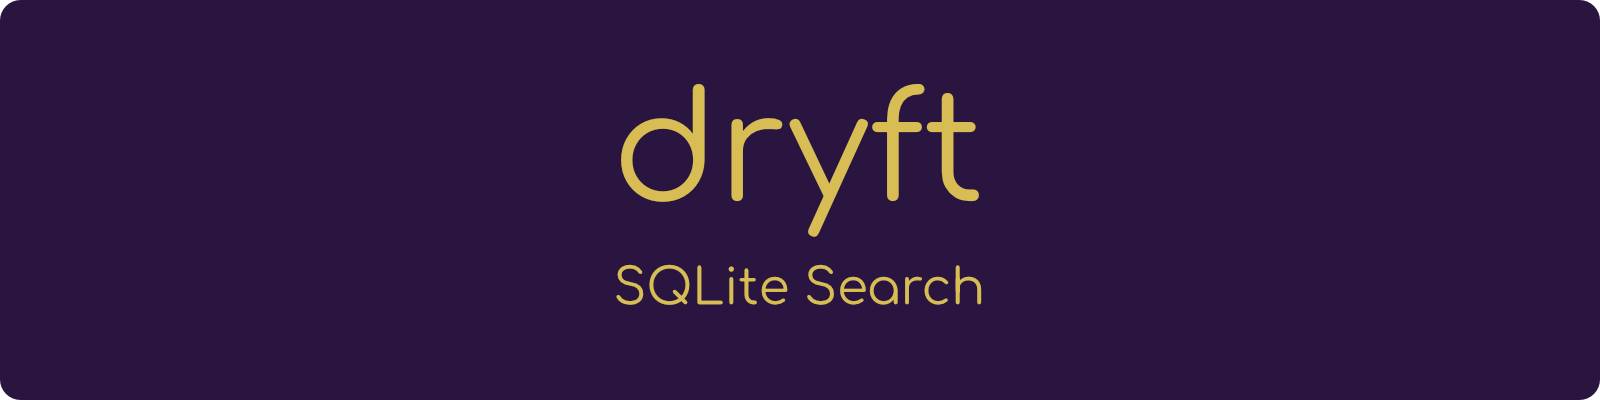
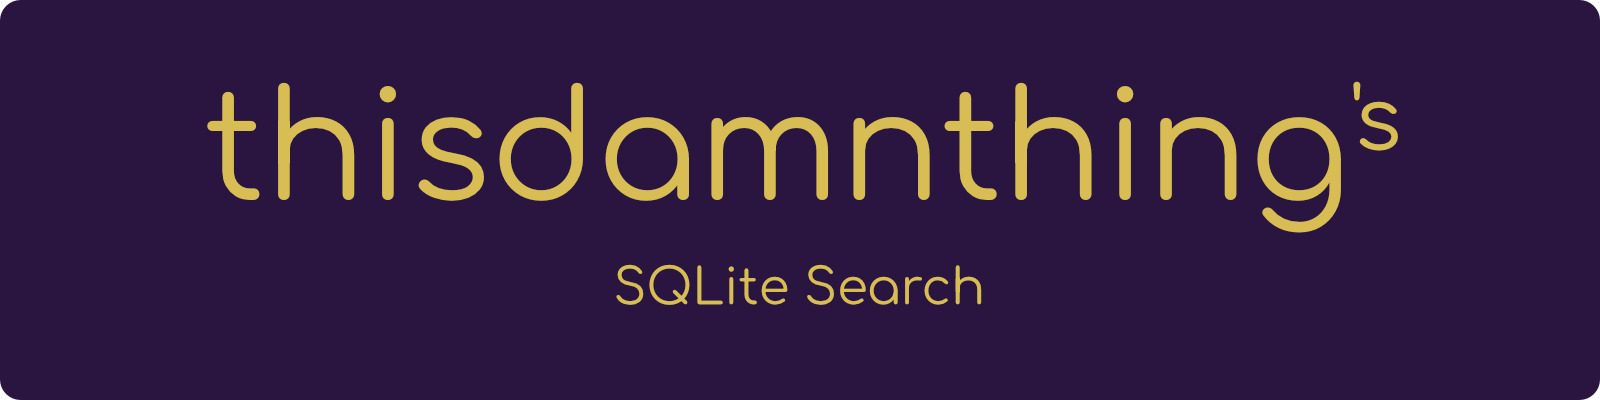
Rebrand SQLite Search and declare marketplace metadata

Changed region(s): [[0.125, 0.21, 0.875, 0.6], [0.6875, 0.21, 0.7188, 0.27], [0.2188, 0.21, 0.25, 0.27]]

diff --git a/assets/provider.py b/assets/provider.py
@@ -25,7 +25,7 @@ def main(request):
         db.close()
         return {'protocol_version': 1, 'indexed': len(notes)}
     if not path.exists():
-        raise ValueError('Index missing; run dryft brain index --provider dryft-search-sqlite')
+        raise ValueError('Index missing; run tdt brain index --provider tdt-search-sqlite')
     db = sqlite3.connect(f'file:{path}?mode=ro', uri=True)
     # Query grammar is generated from tokens; user input is never FTS syntax.
     terms = re.findall(r'\w+', request['query'])[:50]

diff --git a/docs/usage.md b/docs/usage.md
@@ -6,12 +6,12 @@ to your layout. Commands without `--workspace` run from the workspace root.
 
 SQLite Search adds ranked full-text search over approved brain notes. It indexes
 note titles and contents with SQLite FTS5 and ranks matches using BM25, with more
-weight given to title matches. [Dryft](https://usedryft.com) returns current Markdown evidence for the
+weight given to title matches. [ThisDamnThing](https://usethisdamnthing.com) returns current Markdown evidence for the
 matching notes.
 
 ## Requirements
 
-[Dryft](https://usedryft.com) must run under Python 3.12, with FTS5 support in that interpreter's
+[ThisDamnThing](https://usethisdamnthing.com) must run under Python 3.12, with FTS5 support in that interpreter's
 `sqlite3` module. The provider uses Python's standard library;
 it does not bundle a separate database server, model or third-party Python runtime.
 
@@ -19,15 +19,15 @@ it does not bundle a separate database server, model or third-party Python runti
 
 The provider itself uses portable Python APIs, but the current stack manifest
 lists Linux x86_64 only. Windows support needs a compatible release with an
-updated platform declaration and verification. This is separate from [Dryft](https://usedryft.com) core
+updated platform declaration and verification. This is separate from [ThisDamnThing](https://usethisdamnthing.com) core
 platform support. The Python/FTS5 dependency check applies on Windows too; use the
-Python executable from [Dryft](https://usedryft.com)'s environment.
+Python executable from [ThisDamnThing](https://usethisdamnthing.com)'s environment.
 
 ## Dependency setup
 
-[Dryft](https://usedryft.com) launches providers with its own Python interpreter. Installing Python 3.12
-alongside a [Dryft](https://usedryft.com) installation that uses another version does not switch [Dryft](https://usedryft.com)
-to 3.12. Select Python 3.12 when installing [Dryft](https://usedryft.com); for an existing installation,
+[ThisDamnThing](https://usethisdamnthing.com) launches providers with its own Python interpreter. Installing Python 3.12
+alongside a [ThisDamnThing](https://usethisdamnthing.com) installation that uses another version does not switch [ThisDamnThing](https://usethisdamnthing.com)
+to 3.12. Select Python 3.12 when installing [ThisDamnThing](https://usethisdamnthing.com); for an existing installation,
 check its environment before changing anything. For pipx installations,
 `pipx list` shows the Python version used by each application.
 
@@ -46,7 +46,7 @@ python3.12 --version
 python3.12 -c 'import sqlite3; db = sqlite3.connect(":memory:"); db.execute("CREATE VIRTUAL TABLE probe USING fts5(body)"); print("FTS5 available")'
 ```
 
-Repeat the FTS5 check with the interpreter in [Dryft](https://usedryft.com)'s environment if it differs
+Repeat the FTS5 check with the interpreter in [ThisDamnThing](https://usethisdamnthing.com)'s environment if it differs
 from `python3.12`. Expect Python 3.12 and `FTS5 available`. The check uses an
 in-memory database and writes no files.
 
@@ -57,21 +57,21 @@ provides the system library, but a custom Python build may use a different SQLit
 If the check fails, use a Python 3.12 build linked to an SQLite build with
 [FTS5 enabled](https://www.sqlite.org/fts5.html#building_fts5_as_part_of_sqlite).
 Installing the SQLite CLI or a pip package does not enable FTS5 in the interpreter
-[Dryft](https://usedryft.com) already uses. No database server is needed.
+[ThisDamnThing](https://usethisdamnthing.com) already uses. No database server is needed.
 
 ## Install from the registry
 
-In your workspace's agent session, invoke `/dryft-install-stack` in Claude or
-`$dryft-install-stack` in Codex and ask to install `dryft-search-sqlite`. The skill
+In your workspace's agent session, invoke `/tdt-install-stack` in Claude or
+`$tdt-install-stack` in Codex and ask to install `tdt-search-sqlite`. The skill
 searches the marketplace, inspects the release and guides installation.
 
 For the same flow in the CLI:
 
 ```sh
-dryft marketplace search "sqlite search"
-dryft stack install dryft-search-sqlite --inspect
-dryft --workspace ./workspace stack install dryft-search-sqlite --trust-executable SHA256
-dryft --workspace ./workspace brain providers
+tdt marketplace search "sqlite search"
+tdt stack install tdt-search-sqlite --inspect
+tdt --workspace ./workspace stack install tdt-search-sqlite --trust-executable SHA256
+tdt --workspace ./workspace brain providers
 ```
 
 Review the source, version, provider code, platform requirements and any listed
@@ -81,18 +81,18 @@ If the listing requires prerequisite confirmation, verify it and supply the
 corresponding `--confirm-prerequisite TYPE:REF` flags. Select a particular release
 with `--version VERSION` on both inspection and installation.
 
-Registry installation requires network access. [Dryft](https://usedryft.com) downloads and validates the
+Registry installation requires network access. [ThisDamnThing](https://usethisdamnthing.com) downloads and validates the
 release, including the provider's size and hash. Installation does not run the
 provider or build an index. When invoked, the provider retains your OS access;
 a subprocess is not a security sandbox.
 
 ## Build the index
 
-Run the following commands from your [Dryft](https://usedryft.com) workspace, or add
-`--workspace ./workspace` after `dryft` when working elsewhere:
+Run the following commands from your [ThisDamnThing](https://usethisdamnthing.com) workspace, or add
+`--workspace ./workspace` after `tdt` when working elsewhere:
 
 ```sh
-dryft brain index --provider dryft-search-sqlite
+tdt brain index --provider tdt-search-sqlite
 ```
 
 Only approved notes are indexed. After adding, approving, editing or removing
@@ -102,7 +102,7 @@ changed entries and removes deleted ones, leaving unchanged entries intact.
 To discard the cache and build a fresh index:
 
 ```sh
-dryft brain index --provider dryft-search-sqlite --rebuild
+tdt brain index --provider tdt-search-sqlite --rebuild
 ```
 
 The SQLite index is a disposable core-managed cache. Your Markdown files remain
@@ -111,7 +111,7 @@ authoritative; do not edit the database directly.
 ## Search your notes
 
 ```sh
-dryft brain search "deployment recovery" --provider dryft-search-sqlite
+tdt brain search "deployment recovery" --provider tdt-search-sqlite
 ```
 
 Use ordinary words. The provider takes up to 50 word tokens and searches for any
@@ -127,14 +127,14 @@ Installing this stack does not change ordinary literal search. Omit the provider
 to use it:
 
 ```sh
-dryft brain search "deployment"
+tdt brain search "deployment"
 ```
 
 If Semantic Search is also installed and indexed, combine the rankings by
 repeating `--provider`:
 
 ```sh
-dryft brain search "deployment recovery" --provider dryft-search-sqlite --provider dryft-search-semantic
+tdt brain search "deployment recovery" --provider tdt-search-sqlite --provider tdt-search-semantic
 ```
 
 Index each selected provider first. Indexing and querying run locally on demand,
@@ -145,7 +145,7 @@ without network calls, downloads, dependency installation or background services
 Inspect a newer release before approving an update:
 
 ```sh
-dryft stack update dryft-search-sqlite --check
+tdt stack update tdt-search-sqlite --check
 ```
 
 Review the plan and new executable content, then approve through the interactive
@@ -156,7 +156,7 @@ before searching.
 To remove the stack:
 
 ```sh
-dryft stack remove dryft-search-sqlite
+tdt stack remove tdt-search-sqlite
 ```
 
 Removal deletes unchanged owned cache files and preserves your brain notes.
@@ -165,7 +165,7 @@ and restore the recorded originals before retrying.
 
 ## Troubleshooting
 
-- **Provider not listed:** run `dryft stack list` and `dryft doctor` in the intended
+- **Provider not listed:** run `tdt stack list` and `tdt doctor` in the intended
   workspace to check installation and owned files.
 - **FTS5 unavailable:** use a compatible Python build with SQLite FTS5 support.
   Installing this stack does not replace Python or its SQLite library.
@@ -173,4 +173,4 @@ and restore the recorded originals before retrying.
 - **Expected notes missing:** confirm the notes are approved, rerun indexing and
   search for words present in the title or body.
 - **Provider error:** omit `--provider` to use literal search while resolving the
-  error. [Dryft](https://usedryft.com) does not silently switch providers.
+  error. [ThisDamnThing](https://usethisdamnthing.com) does not silently switch providers.

diff --git a/README.md b/README.md
@@ -1,15 +1,15 @@
-![Dryft SQLite Search](docs/assets/banner.png)
+![ThisDamnThing SQLite Search](docs/assets/banner.png)
 
 # SQLite Search
 
-A [Dryft](https://usedryft.com) stack that adds ranked full-text search to your approved brain notes.
+A [ThisDamnThing](https://usethisdamnthing.com) stack that adds ranked full-text search to your approved brain notes.
 It uses SQLite FTS5 to search titles and contents, giving title matches more
 weight. Indexing and searching run locally without an API key, external service
 or model download. Your Markdown notes remain the source for every result.
 
 ## Dependencies
 
-- [Dryft](https://usedryft.com) running under Python 3.12.
+- [ThisDamnThing](https://usethisdamnthing.com) running under Python 3.12.
 - SQLite FTS5 support in that Python interpreter's `sqlite3` module.
 
 No separate database server or pip package is required. See
@@ -19,14 +19,14 @@ to Python.
 
 ## Package compatibility
 
-[Dryft](https://usedryft.com)'s platform support and this stack package's compatibility are separate.
+[ThisDamnThing](https://usethisdamnthing.com)'s platform support and this stack package's compatibility are separate.
 The provider uses Python's standard library, but its current manifest declares
 Linux x86_64 only. A Windows-compatible release must declare and verify Windows
 support; installing Python and FTS5 alone does not change that declaration.
 
 ## Release status
 
-Candidate version: **0.1.0**. Canonical source: [1one8/dryft-search-sqlite](https://github.com/1one8/dryft-search-sqlite).
+Candidate version: **0.1.0**. Canonical source: [CharlGottschalk/tdt-search-sqlite](https://github.com/CharlGottschalk/tdt-search-sqlite).
 The registry commands below are the planned public installation path; production
 listing and installation are still awaiting release verification.
 
@@ -37,8 +37,8 @@ The provider runs with local OS access, so inspect its code before granting trus
 ## Install
 
 Ask your agent to install
-`dryft-search-sqlite` using `/dryft-install-stack` (Claude) or
-`$dryft-install-stack` (Codex). The skill inspects the registry release and guides
+`tdt-search-sqlite` using `/tdt-install-stack` (Claude) or
+`$tdt-install-stack` (Codex). The skill inspects the registry release and guides
 prerequisite checks and executable trust.
 
 Or inspect and install through the CLI:
@@ -48,18 +48,18 @@ the stack source directories. Paths are relative to that directory; adjust them
 to your layout. Commands without `--workspace` run from the workspace root.
 
 ```sh
-dryft stack install dryft-search-sqlite --inspect
-dryft --workspace ./workspace stack install dryft-search-sqlite --trust-executable SHA256
+tdt stack install tdt-search-sqlite --inspect
+tdt --workspace ./workspace stack install tdt-search-sqlite --trust-executable SHA256
 ```
 
 Review the release, prerequisites and provider code first. Replace `SHA256`
 with the inspected selected-content digest and the workspace path with your own.
-[Dryft](https://usedryft.com) downloads the stack from the registry; no source clone is needed.
+[ThisDamnThing](https://usethisdamnthing.com) downloads the stack from the registry; no source clone is needed.
 
 See the [usage guide](docs/usage.md) to build the index and start searching.
 
 ## License
 
-Licensed under the [Apache License 2.0](LICENSE). Copyright 1one8 (Pty) Ltd.
+Licensed under the [Apache License 2.0](LICENSE). Copyright Charl Gottschalk.
 
 Bundled third-party components retain their respective licenses and notices.
